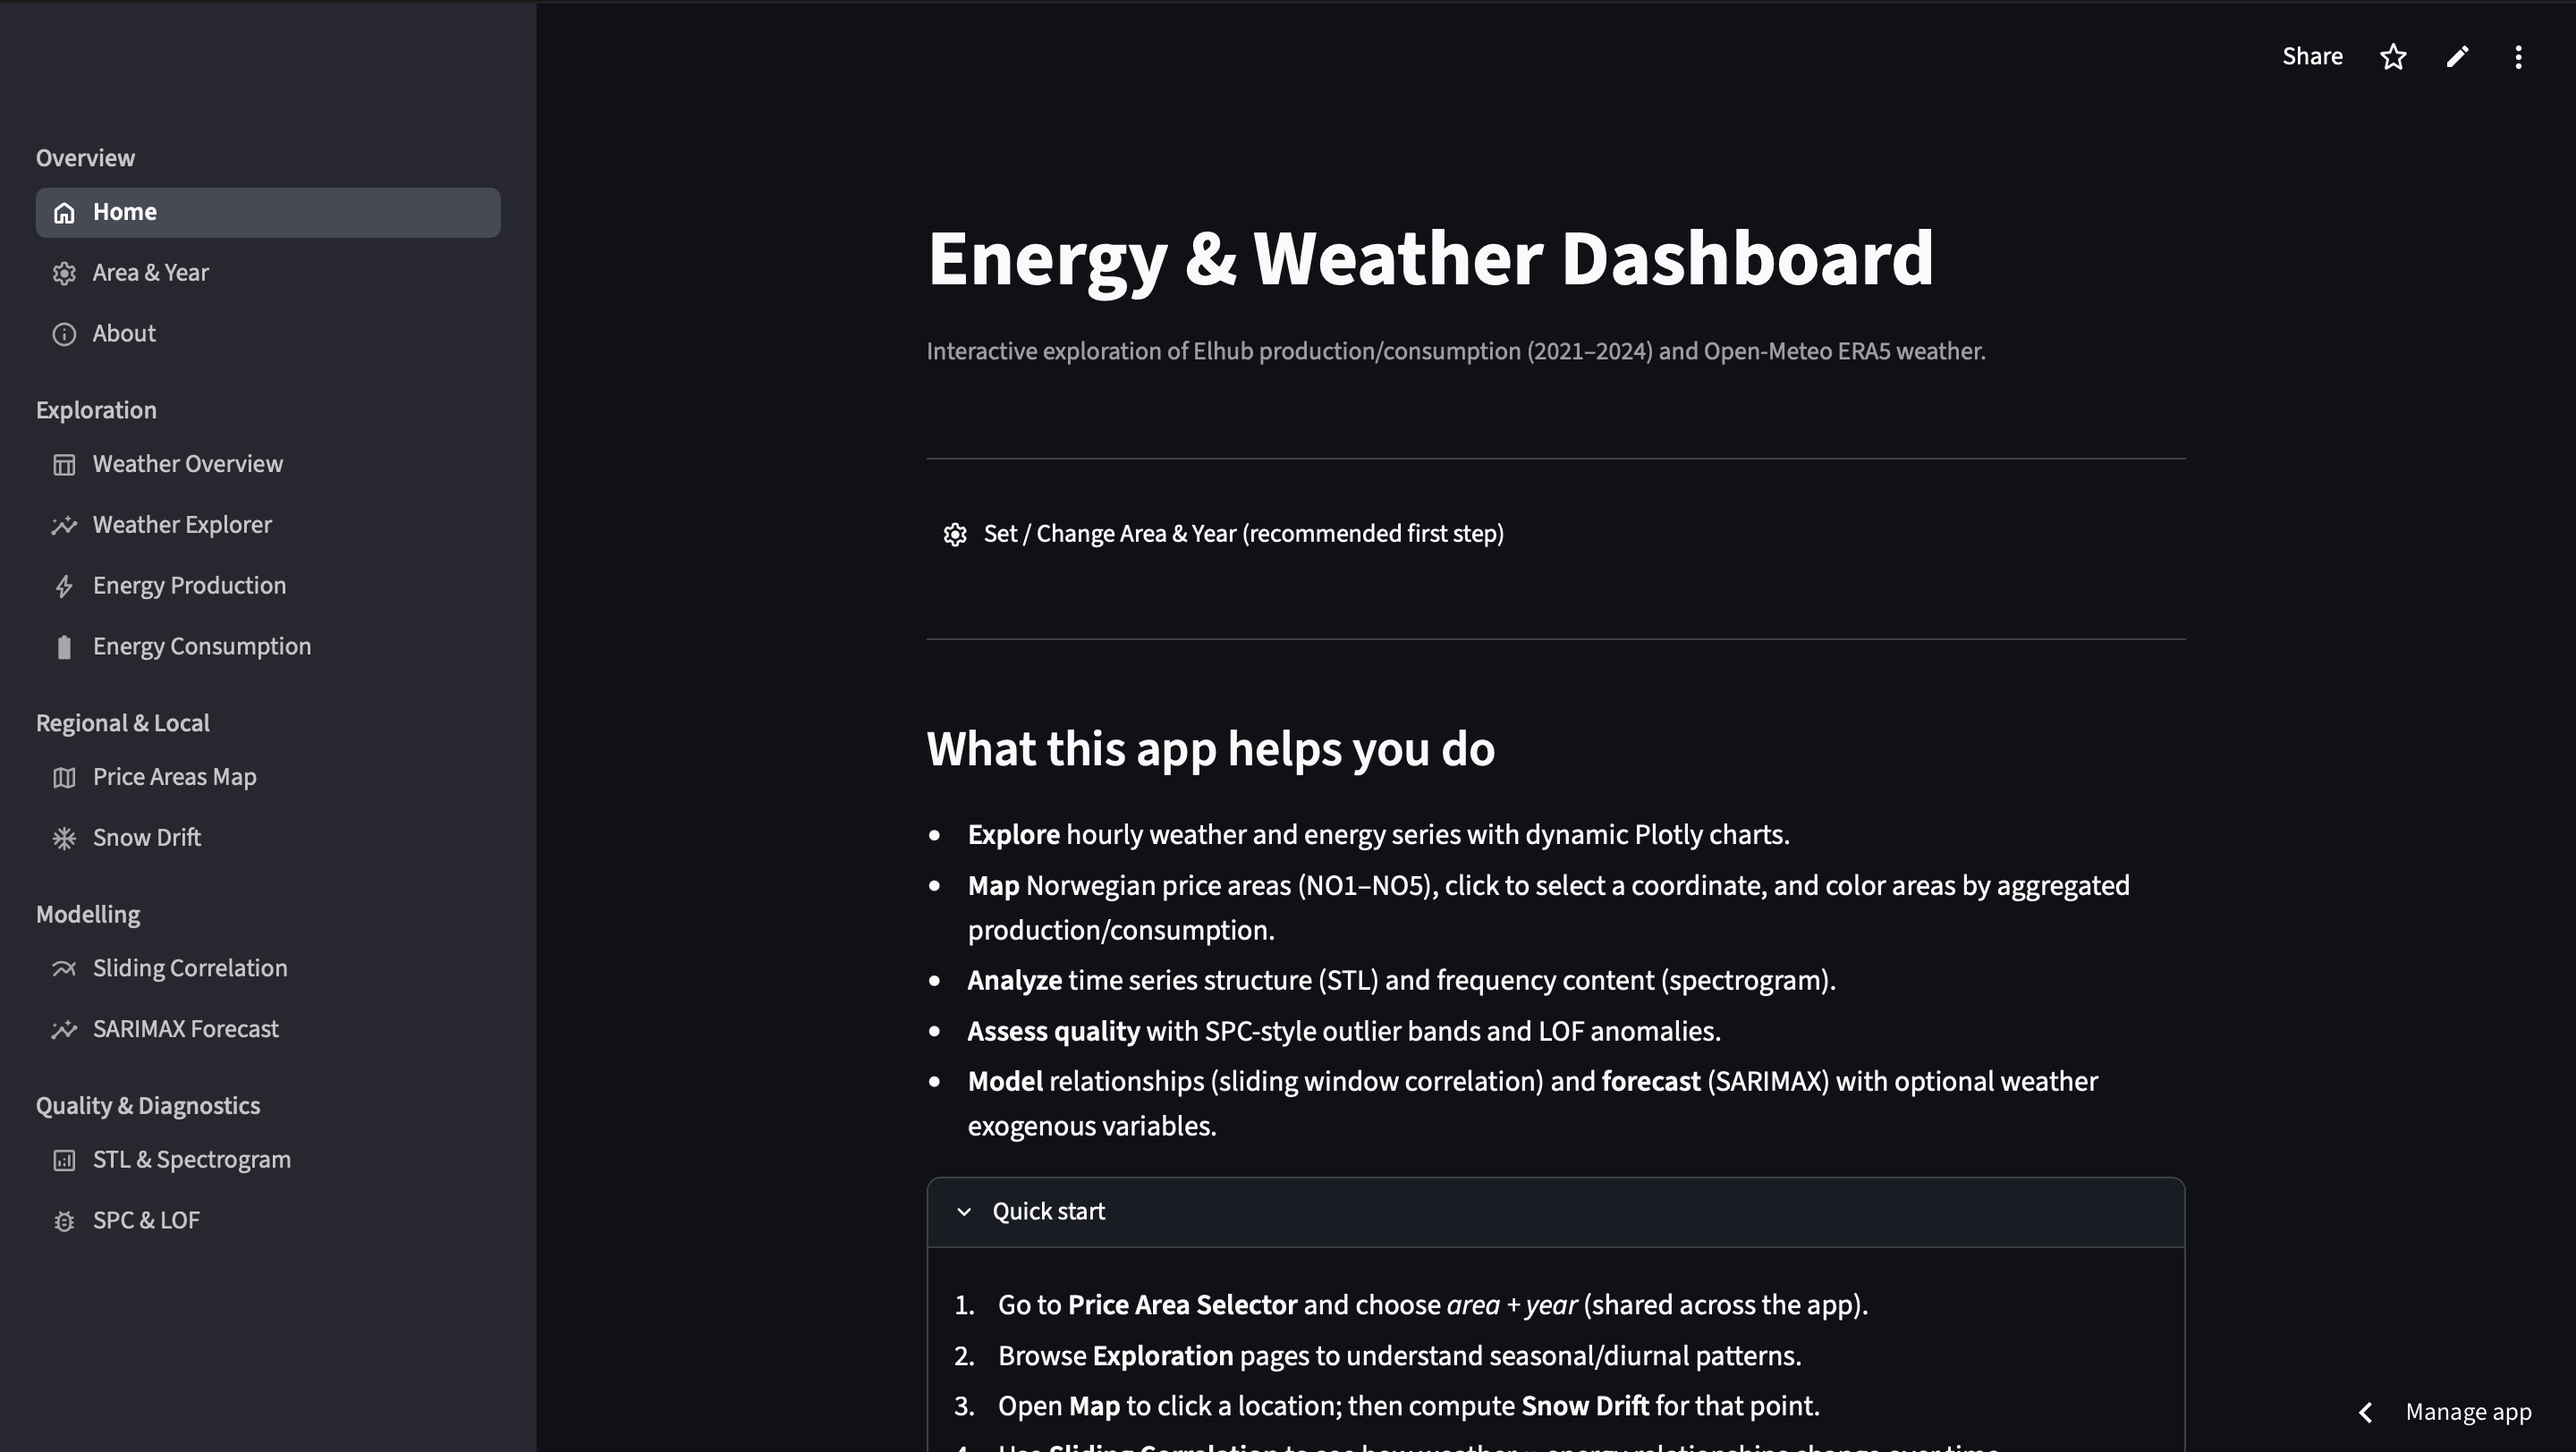
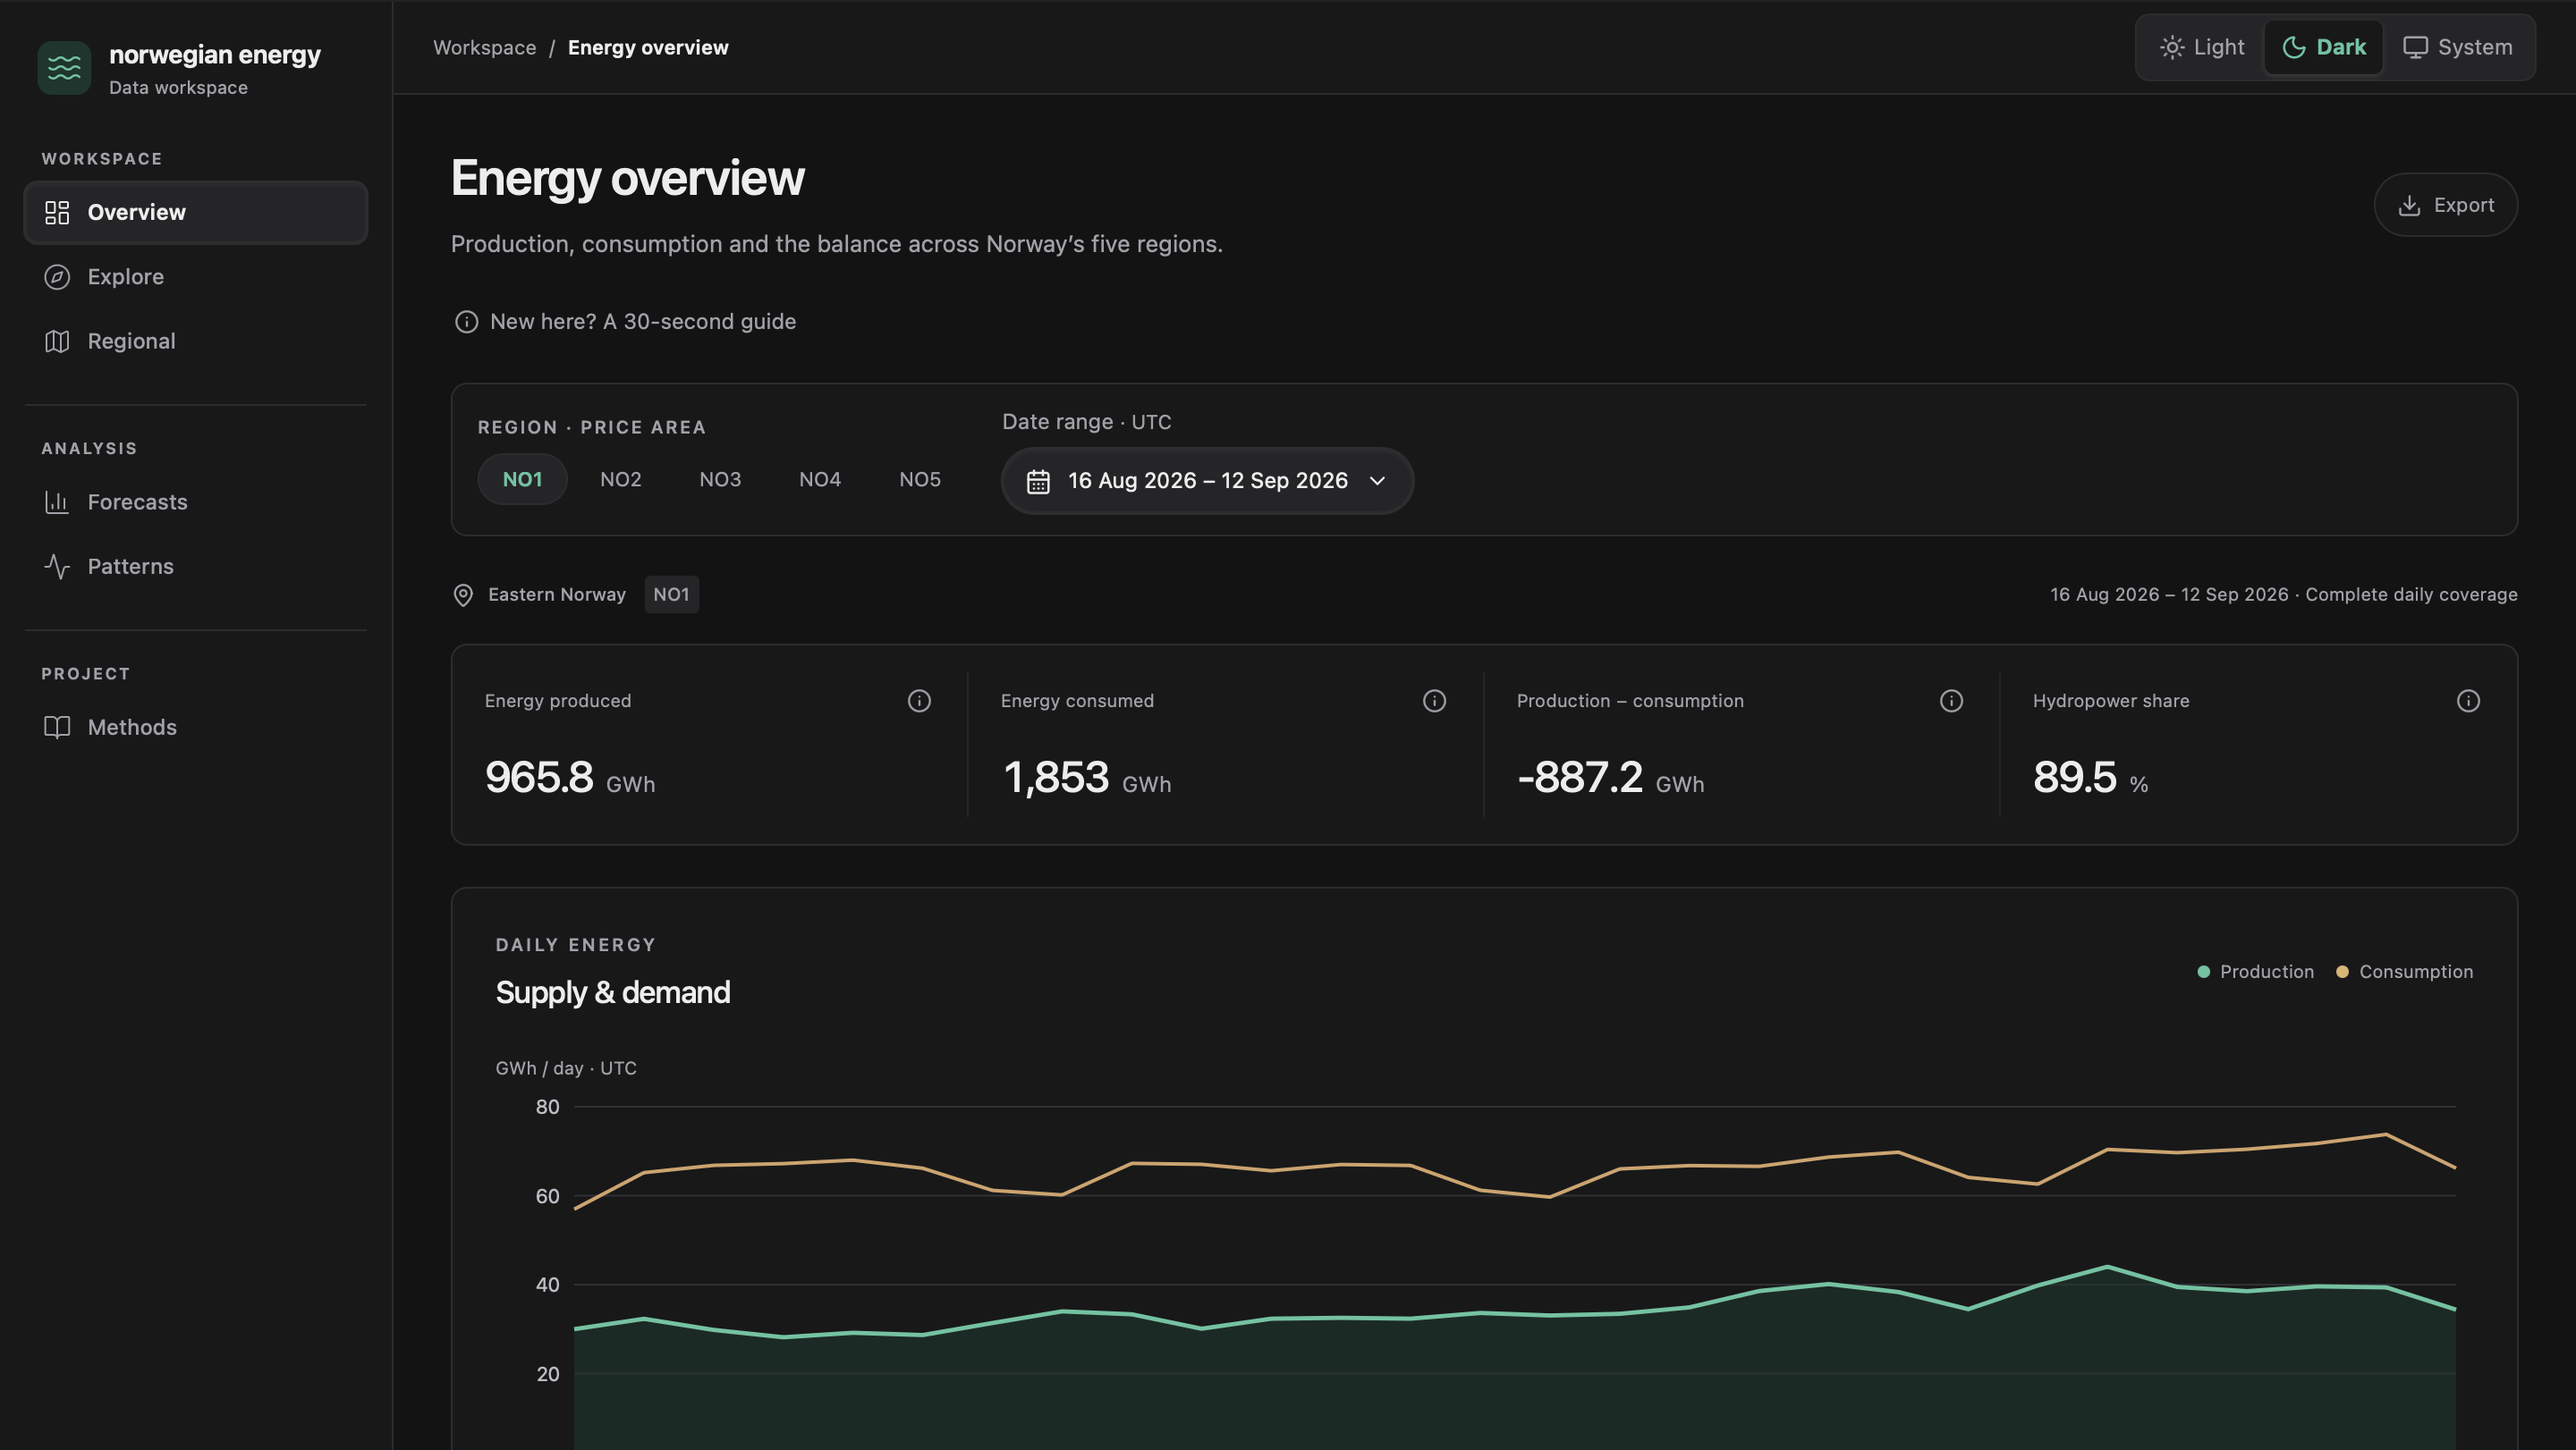
Update Energy Weather project link and preview
Link the portfolio project to the Norwegian energy dashboard repository and replace its preview with the latest Energy overview screenshot.

diff --git a/app/portfolio.ts b/app/portfolio.ts
@@ -94,7 +94,8 @@ export const portfolio = {
       summary: [{"label": "Purpose", "text": "Explore seasonal patterns and the relationship between weather and energy use."}, {"label": "My contribution", "text": "Collected and checked the data, explored forecasts, and presented the analysis in Streamlit."}],
       details: [{"label": "Data preparation", "text": "I brought energy and weather data together, collecting and checking the data before analysis."}, {"label": "Exploration", "text": "The work explored seasonal patterns, forecasts and the relationship between weather and energy use."}, {"label": "Delivery", "text": "I presented the work in a Streamlit application. The screenshot shows its home page and exploration tools."}],
       detailLabel: "View analysis details",
-      image: { src: '/images/projects/energy-weather-dashboard.png', alt: 'Home page of my Energy & Weather Dashboard, with tools for exploring weather, energy production, consumption and forecasting', width: 2880, height: 1624, caption: 'Energy and weather exploration in Streamlit' },
+      url: 'https://github.com/TaoM29/norwegian-energy-dashboard',
+      image: { src: '/images/projects/energy-weather-dashboard.png', alt: 'Energy overview dashboard showing Norwegian production, consumption, regional price areas and supply and demand trends', width: 2880, height: 1622, caption: 'Energy overview across Norway’s regions' },
       category: 'Data analysis',
       description: 'I brought energy and weather data together in a Streamlit app, from collecting and checking the data to presenting the results. I explored seasonal patterns, forecasts, and the relationship between weather and energy use.',
       status: 'Completed',
